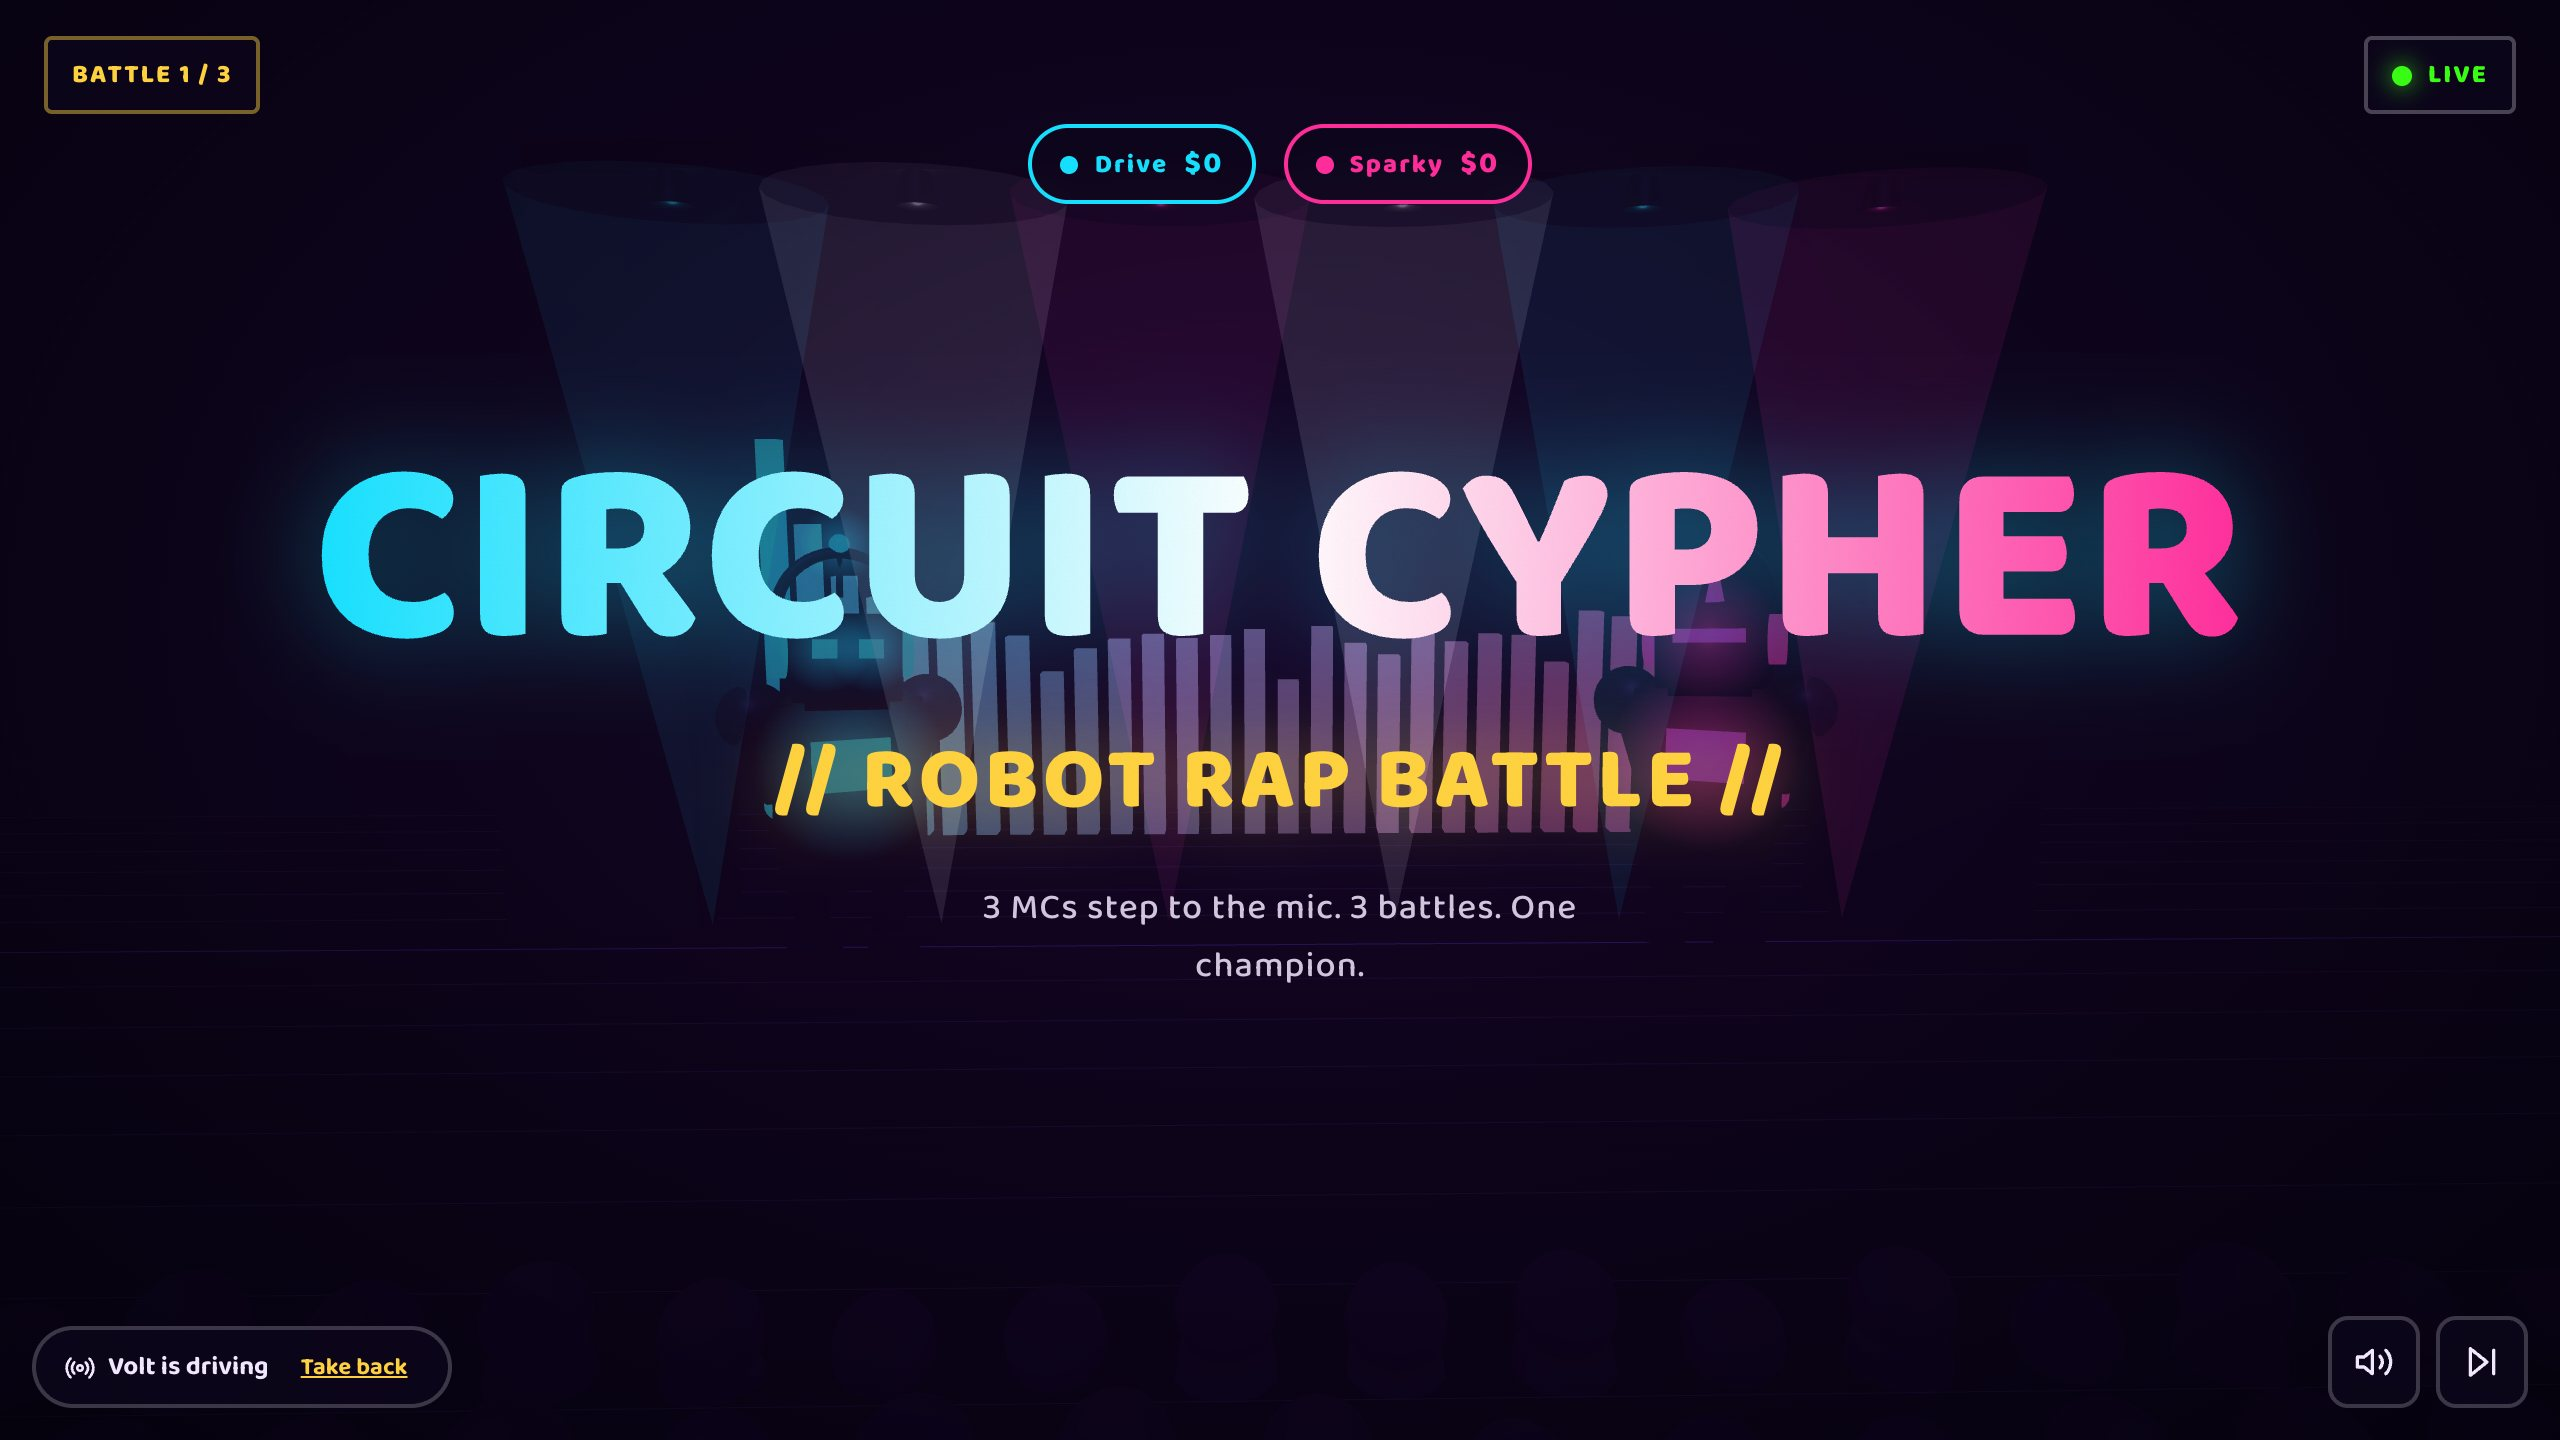
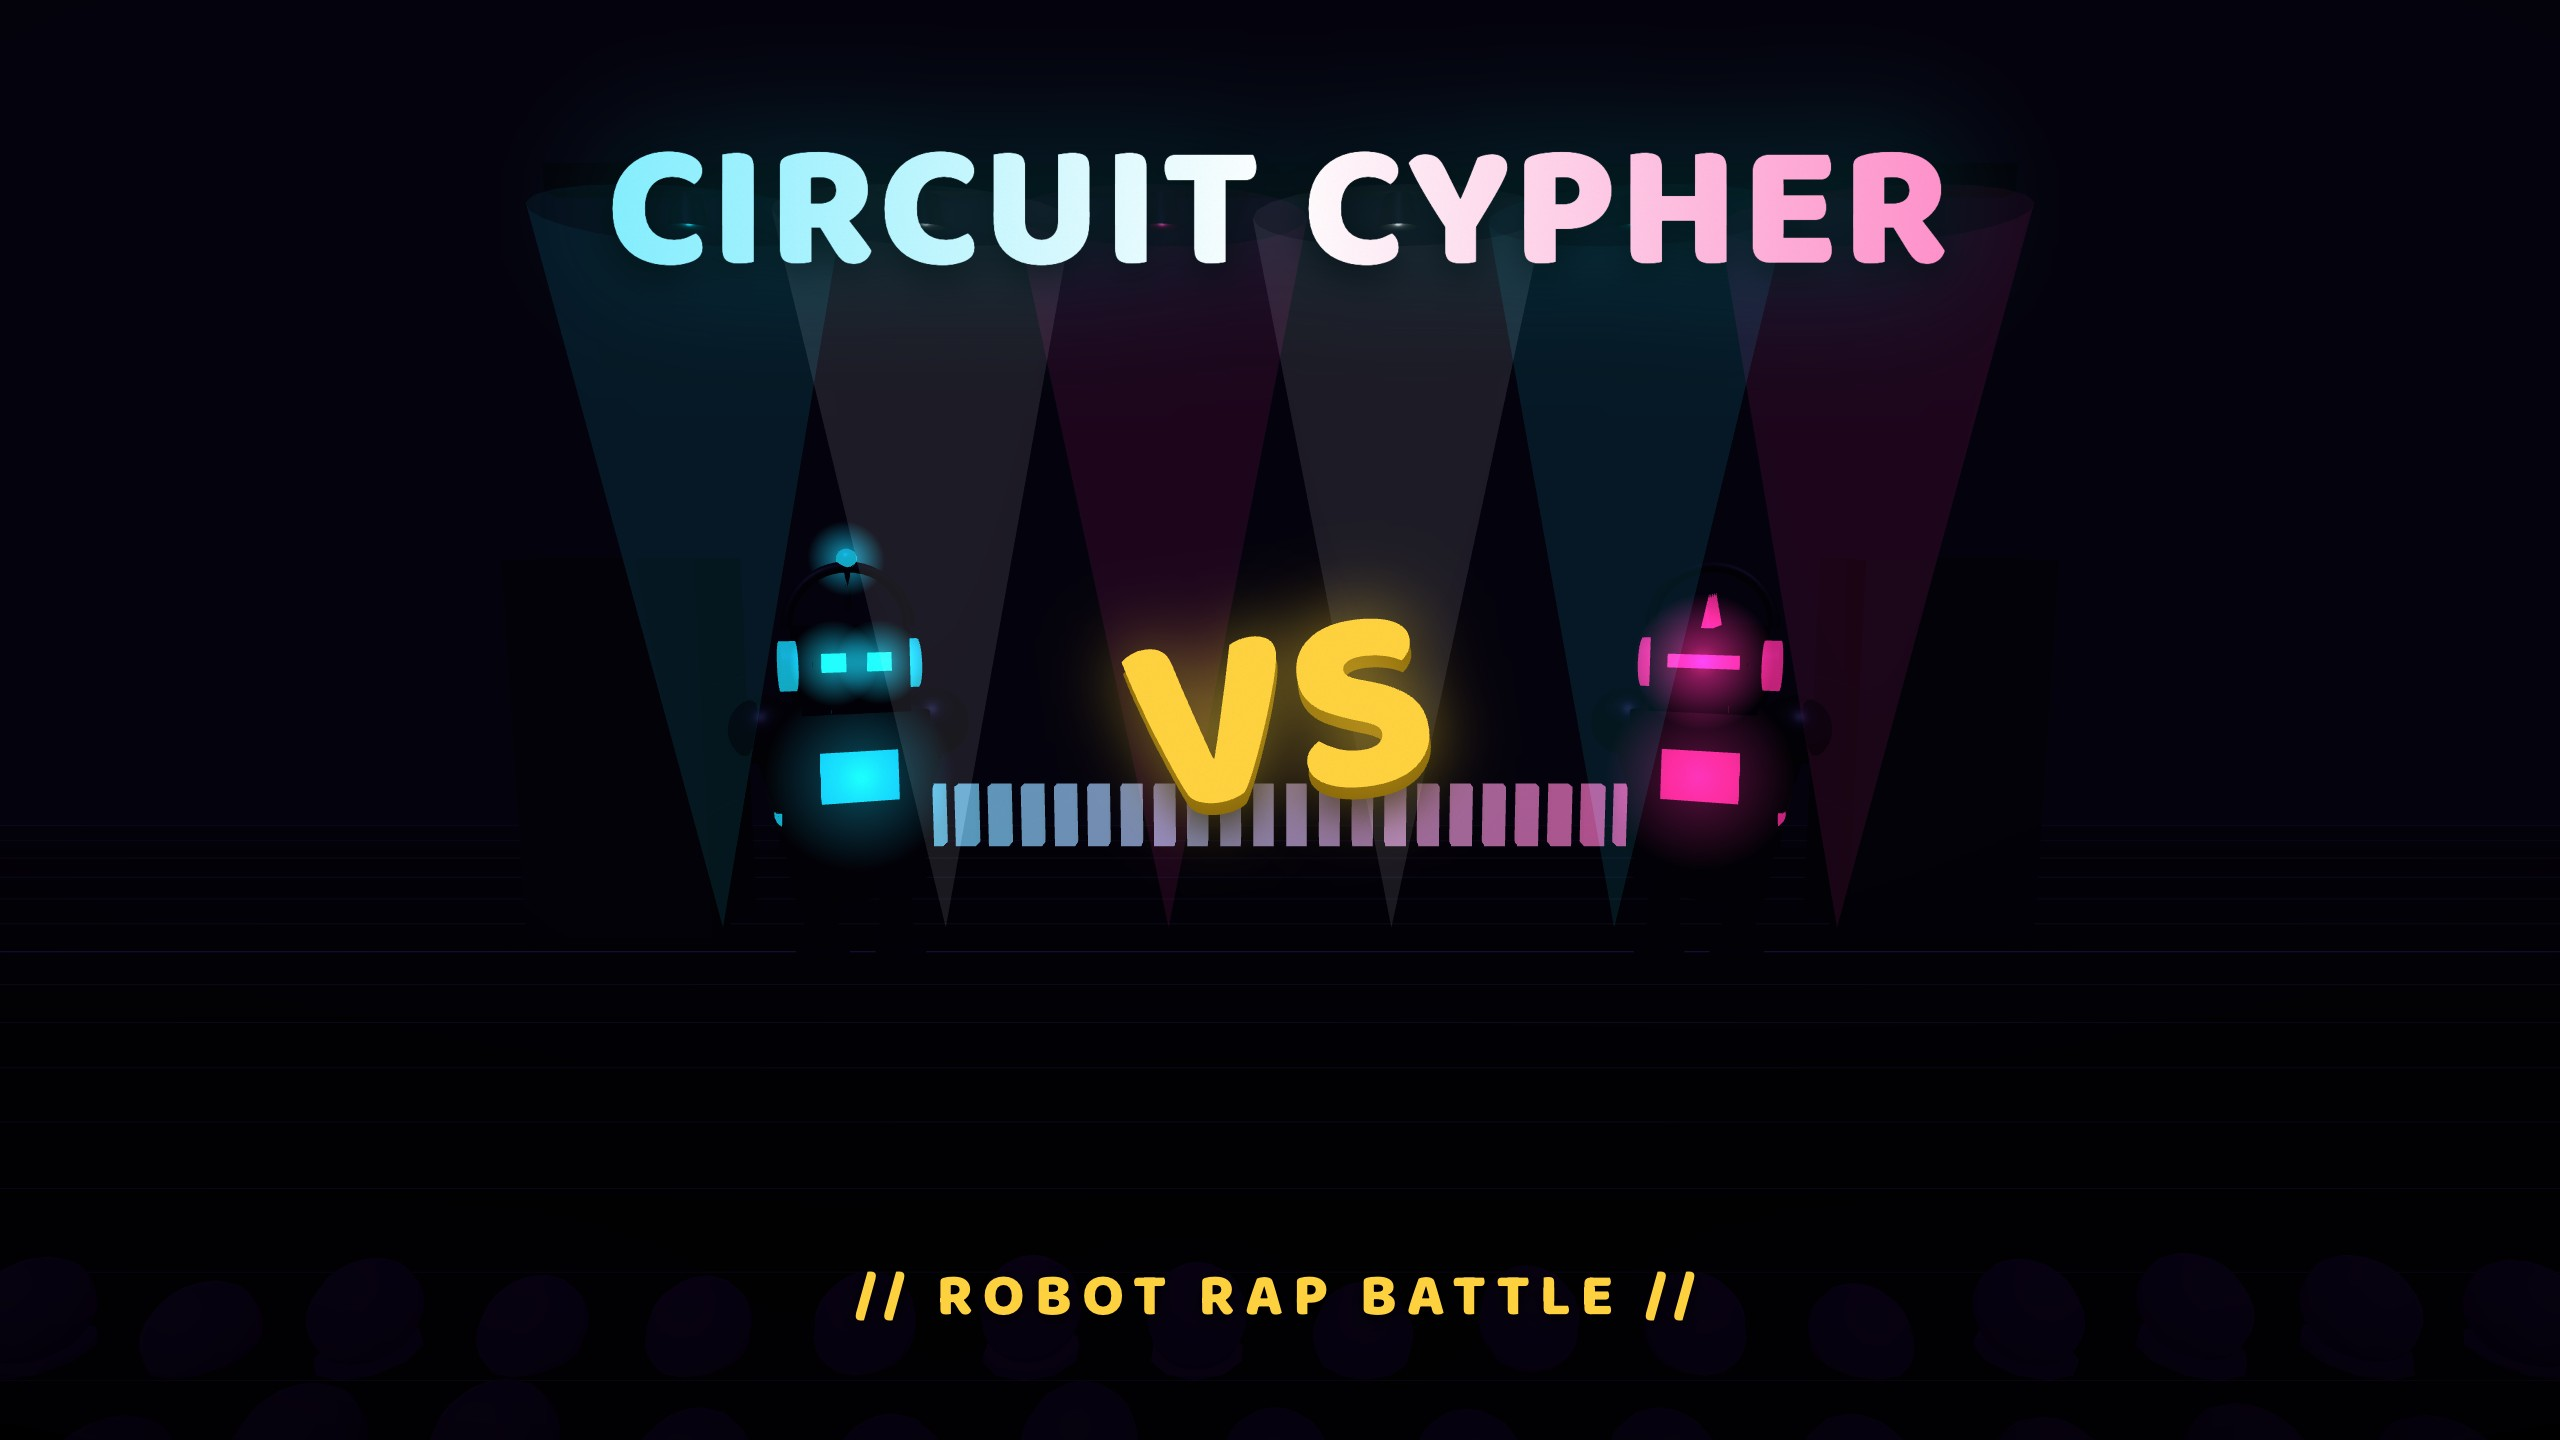
covers: box-art covers for the flagships + uncropped detail page
Add a ratio prop to GameCover so a 16:9 cover shows in full on game
detail pages instead of being cropped to a fixed 150px height (the
detail page now passes ratio=16/9; height: auto overrides the global
discovery-card .cover height). Replace the screenshot covers with
composed box art: Circuit Cypher as the two robots squared off with a
VERSUS, Quiz or Die as the host and the burlap cast around a dripping
title.

diff --git a/packages/ui/src/components/GameCover.vue b/packages/ui/src/components/GameCover.vue
@@ -17,11 +17,22 @@ const props = withDefaults(
     live?: number
     /** Cover height in px (default 150); the featured hero uses a taller value. */
     height?: number
+    /** Optional aspect ratio (e.g. "16 / 9"). When set, the cover sizes by ratio
+     *  to its container width instead of a fixed height, so a 16:9 cover image
+     *  shows in full (no crop), e.g. on a game detail page. */
+    ratio?: string | null
     /** Optional uploaded cover image. When set (and it loads), it fills the cover
      *  instead of the generated gradient art; a broken URL falls back to the art. */
     image?: string | null
   }>(),
-  { type: '', live: 0, height: 150, image: null },
+  { type: '', live: 0, height: 150, ratio: null, image: null },
+)
+const coverStyle = computed(() =>
+  // `height: auto` overrides the global `.cover { height: 150px }` (the discovery-
+  // card cover) so the aspect-ratio sizes from the container width, not a fixed height.
+  props.ratio
+    ? { background: grad.value, aspectRatio: props.ratio, height: 'auto' }
+    : { background: grad.value, height: `${props.height}px` },
 )
 
 // Show the uploaded image only if it actually loads; otherwise keep the
@@ -102,7 +113,7 @@ const SF = 'rgba(255,255,255,.32)'
 </script>
 
 <template>
-  <div class="cover" :style="{ background: grad, height: `${height}px` }">
+  <div class="cover" :style="coverStyle">
     <img v-if="showImage" class="cover-img" :src="coverSrc!" alt="" @error="imageFailed = true" />
     <svg v-if="!showImage" class="motif" viewBox="0 0 300 150" preserveAspectRatio="xMidYMid slice" aria-hidden="true">
       <template v-if="motif === 'q'">

diff --git a/apps/web/app/pages/game/[id].vue b/apps/web/app/pages/game/[id].vue
@@ -25,7 +25,7 @@ useHead(() => ({ title: `${game.value?.name} on Doot` }))
     <div class="wrap" style="max-width: 760px">
       <article v-if="game" class="detail">
         <div class="detail-cover">
-          <GameCover :title="game.name" :type="game.id" :height="240" />
+          <GameCover :title="game.name" :type="game.id" ratio="16 / 9" />
         </div>
         <span class="kicker">{{ game.flagship ? 'Game From Doot' : 'Building block' }}</span>
         <h1 class="detail-title">{{ game.name }}</h1>